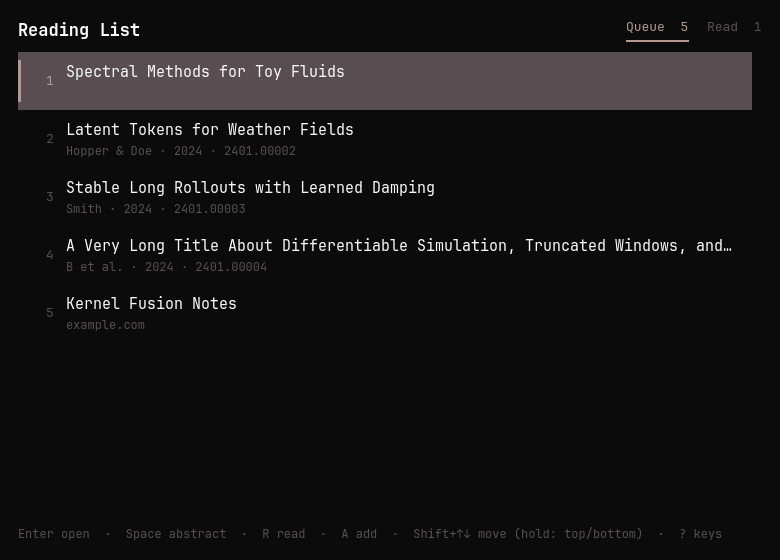
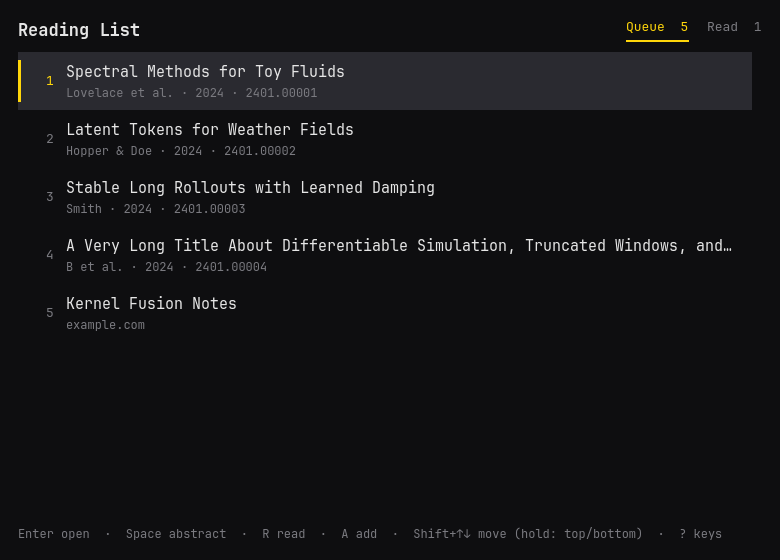
Readable selection, default-accent screenshot

diff --git a/src/Main.qml b/src/Main.qml
@@ -220,7 +220,7 @@ ApplicationWindow {
                             Label {
                                 visible: !win.showDone
                                 text: (row.index + 1).toLocaleString(Qt.locale(), 'f', 0)
-                                color: row.selected ? theme.accent : theme.muted
+                                color: row.selected ? theme.foreground : theme.muted
                                 font.pixelSize: 13
                                 horizontalAlignment: Text.AlignRight
                                 Layout.preferredWidth: 24
@@ -251,7 +251,10 @@ ApplicationWindow {
                                             : row.modelData.subtitle
                                     elide: Text.ElideRight
                                     font.pixelSize: 12
+                                    // Muted text is blended for the window
+                                    // background and fades on the selection.
                                     color: theme.muted
+                                    Binding on color { when: row.selected; value: Qt.rgba(Qt.color(theme.foreground).r, Qt.color(theme.foreground).g, Qt.color(theme.foreground).b, 0.75) }
                                 }
                             }
                         }
